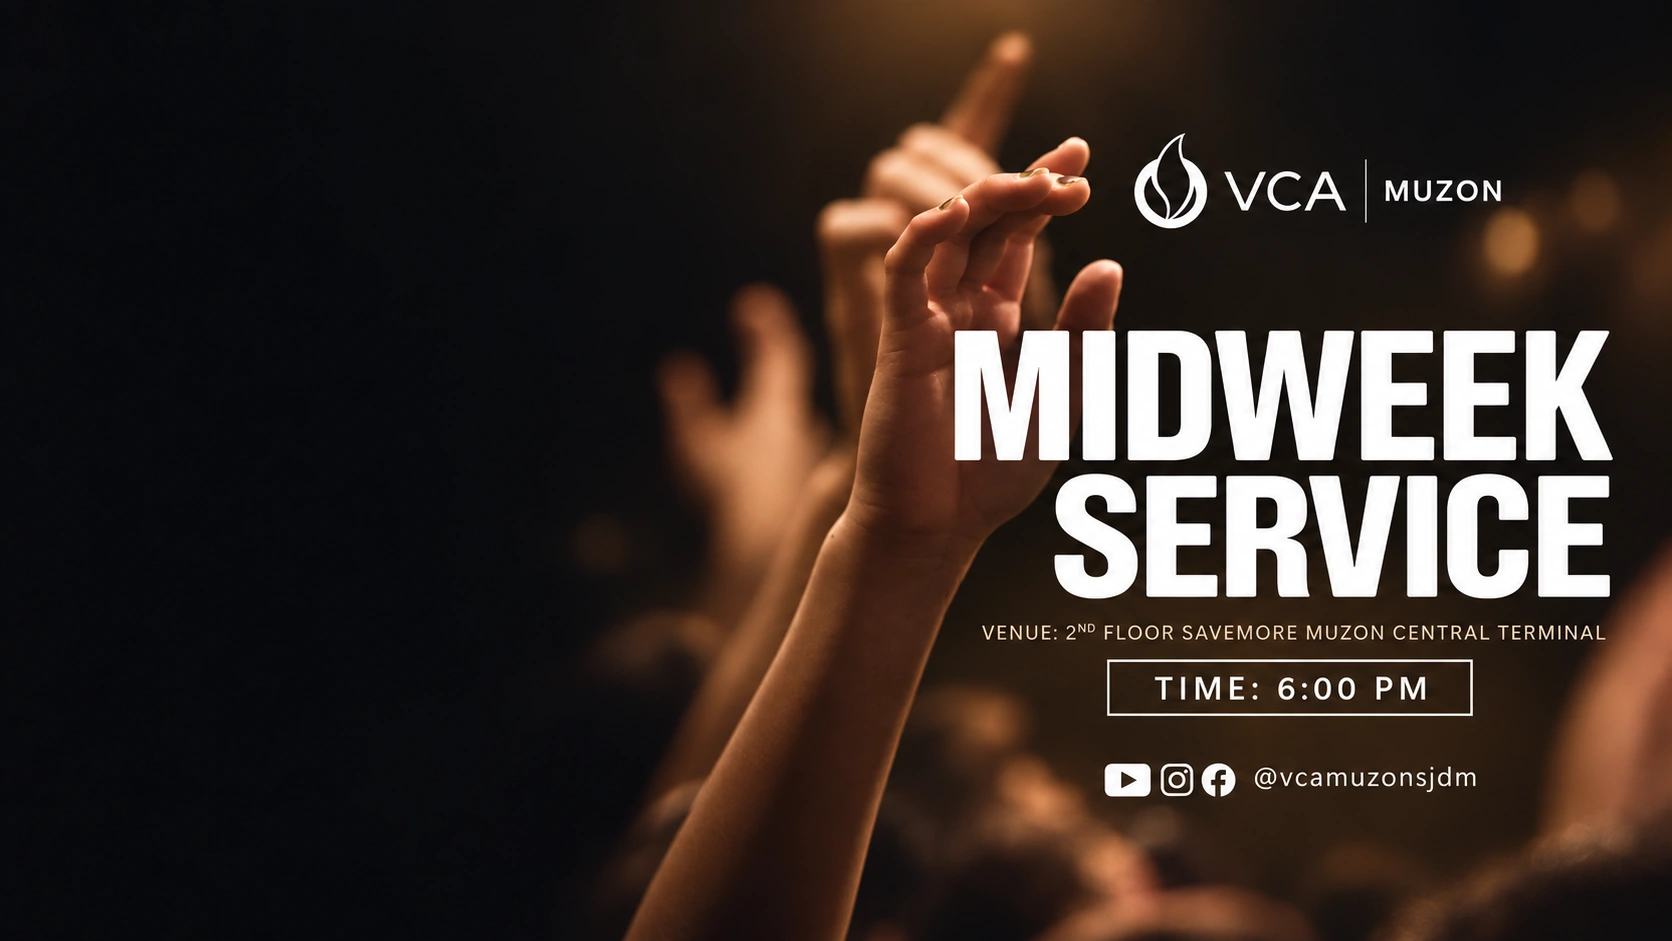
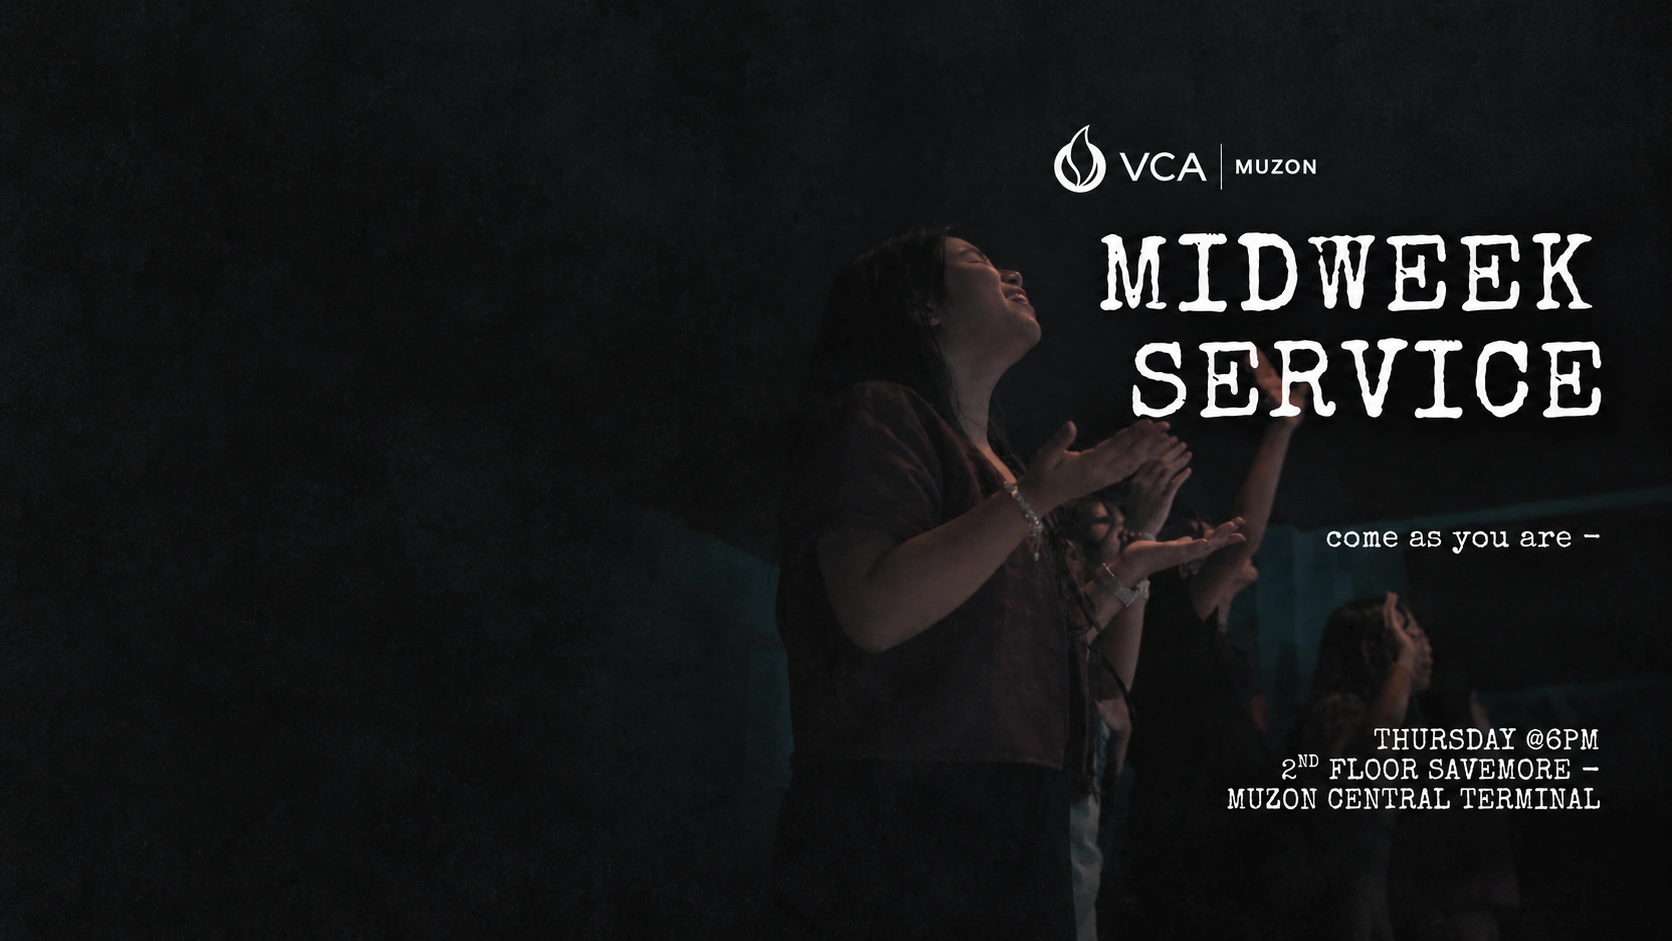
content: update UAT content and assets

diff --git a/preachings.html b/preachings.html
@@ -92,12 +92,12 @@
             <div class="featured-preaching-layout">
                 <div class="video-wrapper">
                     <a
-                    href="https://www.youtube.com/live/CbcLrV-hu9w?si=JUPkDizMgVhFXaoo"
+                    href="https://www.youtube.com/live/oPWAAHXfo0g?si=t0yDLNNh-eYFAyc_"
                     target="_blank"
                     rel="noopener noreferrer"
                     class="video-link">
-                        <img src="assets/preachings/091326.webp"
-                        alt="JESUS IS STILL AND ALWAYS THE ANSWER — WEEK 1: FINANCIAL HARDSHIP, INFLATION, AND PERVASIVE DEBT">
+                        <img src="assets/preachings/092026.webp"
+                        alt="JESUS IS STILL AND ALWAYS THE ANSWER — WEEK 2: MENTAL HEALTH & EXHAUSTION">
                         <div class="play-button">
                             ▶
                         </div>
@@ -105,15 +105,16 @@
                 </div>
 
                 <div class="featured-preaching-content">
-                    <h3>JESUS IS STILL AND ALWAYS THE ANSWER — WEEK 1: FINANCIAL HARDSHIP, INFLATION, AND PERVASIVE DEBT</h3>
+                    <h3>JESUS IS STILL AND ALWAYS THE ANSWER — WEEK 2: MENTAL HEALTH & EXHAUSTION</h3>
                     <p class="preaching-meta">
                         PTR. Boaz Crescini<br>
-                        <time datetime="2026-09-13">Sep 13, 2026</time>
+                        <time datetime="2026-09-20">Sep 20, 2026</time>
                     </p>            
                     <p>
-                        When finances feel tight, prices keep rising, and worries about tomorrow grow heavier, remember: God knows what you need.<br>
-                        <i>“But seek first His kingdom and His righteousness, and all these things will be given to you as well.”</i>
-                            — Matthew 6:33
+                        When life feels overwhelming and your strength begins to run low, remember: Jesus remains the same.<br>
+                        This Sunday, let’s find rest, hope, and strength in the One who never changes.<br>
+                        <i>“Jesus Christ is the same yesterday and today and forever.”</i>
+                            — Hebrews 13:8
                     </p>       
                 </div>
             </div>            
@@ -127,6 +128,23 @@
             </div>
 
             <div class="preachings-grid">
+
+                <div class="preaching-card">
+                    <a
+                        href="https://www.youtube.com/live/CbcLrV-hu9w?si=JUPkDizMgVhFXaoo"
+                        target="_blank"
+                        rel="noopener noreferrer">
+                        <div class="preaching-thumb">
+                            <img
+                                src="assets/preachings/091326.webp"
+                                alt="JESUS IS STILL AND ALWAYS THE ANSWER — WEEK 1: FINANCIAL HARDSHIP, INFLATION, AND PERVASIVE DEBT">
+                            <span>1:46:16</span>
+                        </div>
+
+                        <h3>JESUS IS STILL AND ALWAYS THE ANSWER — WEEK 1: FINANCIAL HARDSHIP, INFLATION, AND PERVASIVE DEBT</h3>
+                        <p>PTR. Boaz Crescini<br><time datetime="2026-09-13">September 13, 2026</time></p>
+                    </a>
+                </div>
 
                 <div class="preaching-card">
                     <a
@@ -176,23 +194,6 @@
 
                         <h3>Strong in the Great Commission | The Power of Mission: The Holy Spirit</h3>
                         <p>PTR. John Ape<br><time datetime="2026-08-23">August 23, 2026</time></p>
-                    </a>
-                </div>
-
-                <div class="preaching-card">
-                    <a 
-                        href="https://www.youtube.com/live/CK7FTTOqYL4?si=9zuMK6Y44wt63ycE"
-                        target="_blank"
-                        rel="noopener noreferrer">
-                        <div class="preaching-thumb">
-                            <img 
-                                src="assets/preachings/081626.webp"
-                                alt="Strong in the Great Commission | The Task of Mission: Obey and Go">
-                            <span>1:49:40</span>
-                        </div>
-
-                        <h3>Strong in the Great Commission | The Task of Mission: Obey and Go</h3>
-                        <p>BRO. Reyno Lee<br><time datetime="2026-08-16">August 16, 2026</time></p>
                     </a>
                 </div>  
 

diff --git a/index.html b/index.html
@@ -273,10 +273,12 @@
                         loading="lazy"
                     >
                     <div class="announcement-content">
-                        <h3>Midweek is calling.</h3>
+                        <h3>Midweek Service</h3>
                         <p>
-                            Take a break from the noise.<br>
-                            Come worship. Come be refreshed. Come as you are.
+                            There’s a place for you here <br>
+                            Let’s worship, grow, and do life together!<br>
+                            <i>"Let us consider how we may spur one another on…"</i>
+                            Hebrews 10:24–25
                         </p>
                     </div>
                 </div>
@@ -285,40 +287,19 @@
 
                 <div class="announcement-slide">
                     <img
-                        src="assets/home/carousel/young_couple.webp"
-                        alt="Young Couple"
+                        src="assets/home/carousel/youth.webp"
+                        alt="Youth Service"
                         class="announcement-image"
                         width="1200"
                         height="675"
                         loading="lazy"
                     >
                     <div class="announcement-content">
-                        <h3>Strong marriages don’t happen by chance</h3>
+                        <h3>Youth Service</h3>
                         <p>
-                            They’re built together, with God at the center. ❤
-                        </p>
-                    </div>
-                </div>
-
-                <!-- SLIDE -->
-
-                <div class="announcement-slide">
-                    <img
-                        src="assets/home/carousel/single_adults.webp"
-                        alt="Single Adults Fellowship"
-                        class="announcement-image"
-                        width="1200"
-                        height="675"
-                        loading="lazy"
-                    >
-                    <div class="announcement-content">
-                        <h3>Single Adults Fellowship</h3>
-                        <p>
-                            Coming alone? No worries! Just come to the fellowship area outside of church sanctuary after the service.
-                        </p>
-                        <p>
-                            Come join us on our fellowship every 2nd and 4th Sunday of the month!
-                            There’s a place for you here.
+                            Remember that our age does not limit us to worship our Creator and our Father.<br>
+                            Don’t let our youthful age be a hindrance to love God and share His wisdom.<br>
+                            Tara sa Youth Service and let’s grow in faith together! Let’s worship the Lord with fun, faith, and fellowship!<br>
                         </p>
                     </div>
                 </div>
